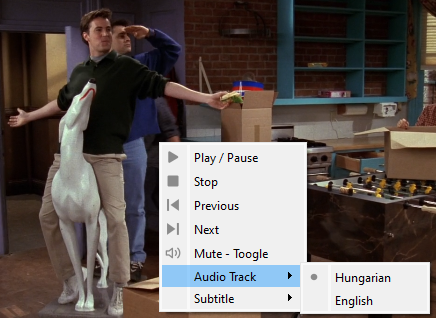
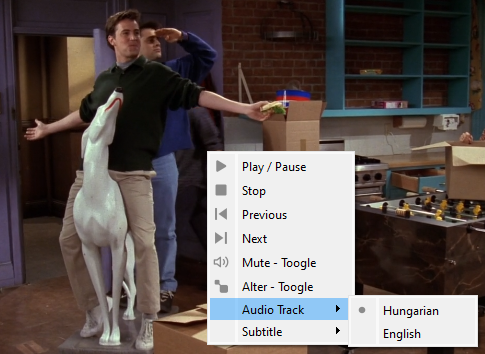
new context menu item added - toggle alter. window size/position

diff --git a/src/av_player.py b/src/av_player.py
@@ -61,6 +61,7 @@ class AVPlayer(QWidget):
             'Previous':{'icon': br.icon.previous},
             'Next':{'icon': br.icon.next},
             'Mute - Toogle':{'icon': br.icon.speaker},
+            'Alter - Toogle':{'icon': br.icon.alter},
             'Audio Track': {
                 'icon': None,
                 'menu_sub': '',
@@ -160,6 +161,8 @@ class AVPlayer(QWidget):
             br.button_next_track.button_next_track_clicked()
         elif q.text() == list(self.context_menu_dic)[4]:
             br.button_queue.button_speaker_clicked()
+        elif q.text() == list(self.context_menu_dic)[5]:
+            br.window.window_size_toggle_action()
         
         elif q.text() in audio_tracks_list:
             self.player.setActiveAudioTrack(audio_tracks_list.index(q.text()))

diff --git a/src/icons.py b/src/icons.py
@@ -31,5 +31,8 @@ class MyIcon():
         self.search = QIcon(f'skins/{cv.skin_selected}/search.png')
         self.clear_queue = QIcon(f'skins/{cv.skin_selected}/bin.png')
         
-        # FOR THE SELECTED AUDIO AND SUBTITLE TRACK - VIDEO CONTEXTMENU / RIGHT CLICK
+        ## VIDEO AREA - CONTEXTMENU / RIGHT CLICK
+        # TOGGLE BETWEEN ALTERNATIVE WINDOW SIZE / POSITION
+        self.alter = QIcon(f'skins/{cv.skin_selected}/alter.png')
+        # FOR THE SELECTED AUDIO AND SUBTITLE TRACK 
         self.selected = QIcon(f'skins/{cv.skin_selected}/dot.png')
